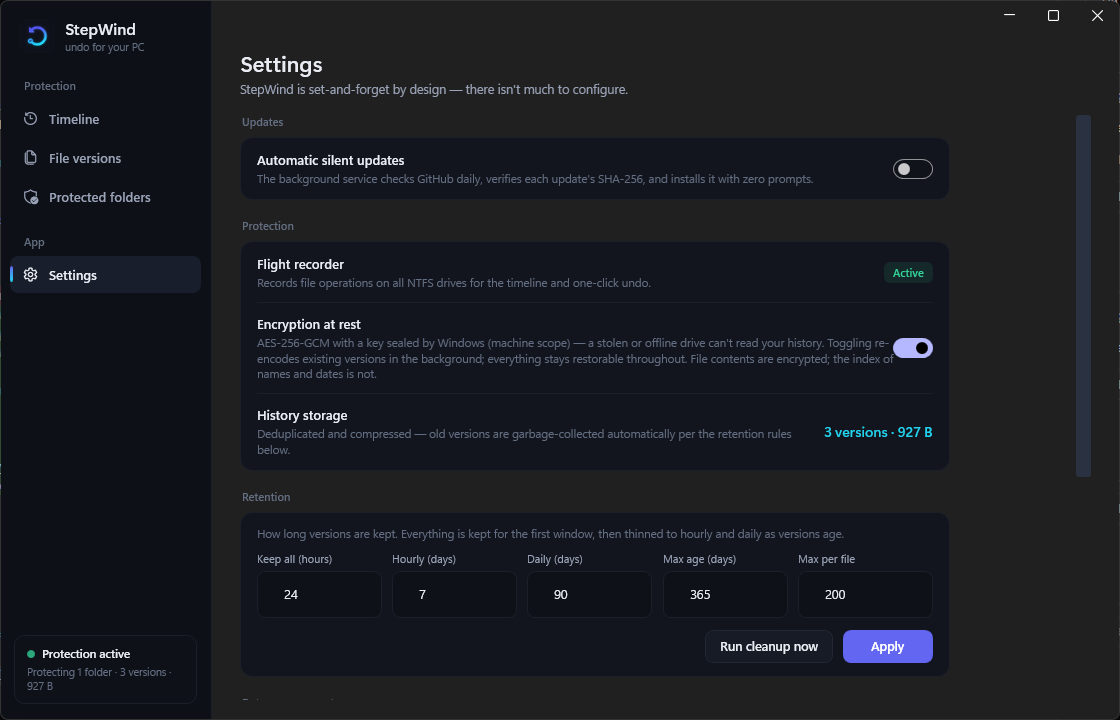
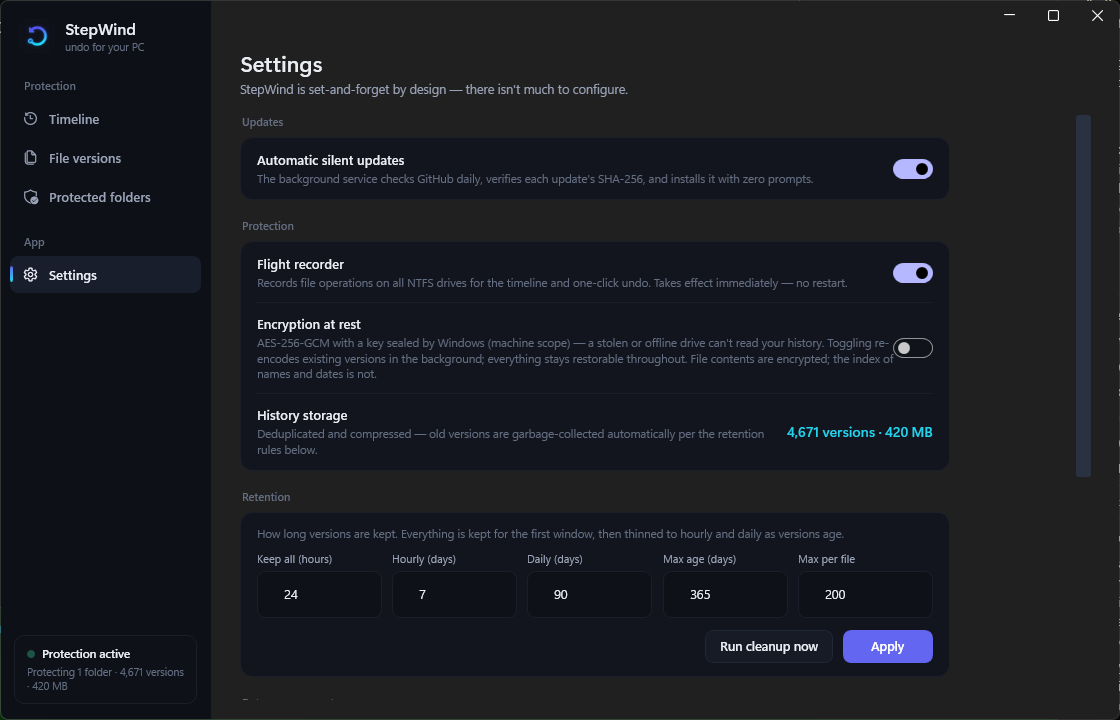
Flight recorder is a real toggle; fix silent-update abort
Two bugs the user hit: the Flight recorder row was display-only (no way
to turn it on), and it was showing Off because the E2E harnesses had
written a test settings.json with it disabled and left it there.

- Host: flight recorder can start/stop live via a SetSettings patch
  (FlightRecorderEnabled). Enabling that fails to start ETW/USN (e.g.
  unprivileged run) returns an honest error and leaves the setting off
  instead of pretending; _flightRecorder is now swapped under a local
  copy so BuildTimeline never races the toggle.
- Settings UI: real ToggleSwitch (two-way, snaps back to the service's
  truth on failure); status updates reflect the running state without
  re-pushing a patch.

- Installer: removed AppMutex. With /SUPPRESSMSGBOXES its "app is
  running" prompt auto-answered Cancel and ABORTED the whole silent
  update before any file was copied -- so upgrades and every silent
  auto-update kept the OLD service binary while reporting success (the
  installed StepWind.Service.exe hashed different from the built one).
  Now CloseApplications=yes (Restart Manager closes/reopens the tray
  GUI) + CurStepChanged(ssInstall) cleanly stops the service before the
  copy. Verified: post-upgrade installed service exe hash == built, and
  the flight-recorder toggle works on the freshly-updated service.

- E2E harnesses (all six) now back up settings.json before and restore
  it after, so tests can never again leave protection switches off on a
  real machine.
[…]

diff --git a/src/StepWind.App/Views/SettingsView.xaml b/src/StepWind.App/Views/SettingsView.xaml
@@ -50,34 +50,10 @@
                            Foreground="{StaticResource SW.Text}"/>
                 <TextBlock FontSize="11.5" Foreground="{StaticResource SW.Text3}" Margin="0,3,0,0"
                            TextWrapping="Wrap"
-                           Text="Records file operations on all NTFS drives for the timeline and one-click undo."/>
+                           Text="Records file operations on all NTFS drives for the timeline and one-click undo. Takes effect immediately — no restart."/>
               </StackPanel>
-              <Border Grid.Column="1" CornerRadius="6" Padding="9,3" VerticalAlignment="Center">
-                <Border.Style>
-                  <Style TargetType="Border">
-                    <Setter Property="Background" Value="#1AFB7185"/>
-                    <Style.Triggers>
-                      <DataTrigger Binding="{Binding FlightRecorderOn}" Value="True">
-                        <Setter Property="Background" Value="#1A34D399"/>
-                      </DataTrigger>
-                    </Style.Triggers>
-                  </Style>
-                </Border.Style>
-                <TextBlock FontSize="11" FontWeight="SemiBold">
-                  <TextBlock.Style>
-                    <Style TargetType="TextBlock">
-                      <Setter Property="Text" Value="Off"/>
-                      <Setter Property="Foreground" Value="{StaticResource SW.Danger}"/>
-                      <Style.Triggers>
-                        <DataTrigger Binding="{Binding FlightRecorderOn}" Value="True">
-                          <Setter Property="Text" Value="Active"/>
-                          <Setter Property="Foreground" Value="{StaticResource SW.Ok}"/>
-                        </DataTrigger>
-                      </Style.Triggers>
-                    </Style>
-                  </TextBlock.Style>
-                </TextBlock>
-              </Border>
+              <ui:ToggleSwitch Grid.Column="1" VerticalAlignment="Center"
+                               IsChecked="{Binding FlightRecorderOn}"/>
             </Grid>
 
             <Rectangle Height="1" Fill="{StaticResource SW.StrokeSoft}" Margin="0,12"/>

diff --git a/src/StepWind.Core/Engine/StepWindHost.cs b/src/StepWind.Core/Engine/StepWindHost.cs
@@ -17,7 +17,7 @@ public sealed class StepWindHost : IDisposable
 {
     private readonly StepWindSettings _settings;
     private readonly VersionStore _store;
-    private readonly FlightRecorder? _flightRecorder;
+    private FlightRecorder? _flightRecorder; // swapped live by the settings toggle
     private readonly System.Threading.Timer _retentionTimer;
     private readonly Action<string>? _log;
     private readonly RealFileSystemActions _fs = new();
@@ -54,14 +54,10 @@ public sealed class StepWindHost : IDisposable
 
         if (settings.FlightRecorderEnabled)
         {
-            try
+            string? error = TryStartFlightRecorder();
+            if (error is not null)
             {
-                _flightRecorder = new FlightRecorder(settings.StoreRoot, FixedNtfsVolumes(), log: log,
-                    ignorePrefixes: new[] { StepWindSettings.DefaultRoot, settings.StoreRoot });
-            }
-            catch (Exception ex)
-            {
-                _log?.Invoke("flight recorder unavailable: " + ex.Message);
+                _log?.Invoke("flight recorder unavailable: " + error);
             }
         }
 
@@ -77,6 +73,40 @@ public sealed class StepWindHost : IDisposable
         // Retention + GC daily (and once shortly after start).
         _retentionTimer = new System.Threading.Timer(_ => RunRetention(), null,
             TimeSpan.FromMinutes(5), TimeSpan.FromHours(24));
+    }
+
+    /// <summary>Starts the flight recorder (USN + ETW). Returns null on success, else the reason.</summary>
+    private string? TryStartFlightRecorder()
+    {
+        if (_flightRecorder is not null)
+        {
+            return null;
+        }
+
+        try
+        {
+            _flightRecorder = new FlightRecorder(_settings.StoreRoot, FixedNtfsVolumes(), log: _log,
+                ignorePrefixes: new[] { StepWindSettings.DefaultRoot, _settings.StoreRoot });
+            return null;
+        }
+        catch (Exception ex)
+        {
+            return ex.Message;
+        }
+    }
+
+    private void StopFlightRecorder()
+    {
+        FlightRecorder? fr = _flightRecorder;
+        _flightRecorder = null;
+        try
+        {
+            fr?.Dispose();
+        }
+        catch (Exception ex)
+        {
+            _log?.Invoke("flight recorder stop: " + ex.Message);
+        }
     }
 
     /// <summary>Creates a watch engine from the current settings (exclusions applied).</summary>
@@ -142,13 +172,14 @@ public sealed class StepWindHost : IDisposable
 
     private List<TimelineEntry> BuildTimeline(int limit)
     {
-        if (_flightRecorder is null)
+        FlightRecorder? recorder = _flightRecorder; // local copy — the toggle can swap it
+        if (recorder is null)
         {
             return [];
         }
 
         var entries = new List<TimelineEntry>();
-        foreach (FileOperation op in _flightRecorder.Recent(limit))
+        foreach (FileOperation op in recorder.Recent(limit))
         {
             entries.Add(new TimelineEntry
             {
@@ -189,6 +220,7 @@ public sealed class StepWindHost : IDisposable
         public List<string>? ExcludedPrefixes { get; set; }
         public bool? AutoUpdateEnabled { get; set; }
         public bool? EncryptionEnabled { get; set; }
+        public bool? FlightRecorderEnabled { get; set; }
         public bool? TimelineProtectedOnly { get; set; }
         public int? RetentionKeepAllHours { get; set; }
         public int? RetentionHourlyDays { get; set; }
@@ -252,6 +284,27 @@ public sealed class StepWindHost : IDisposable
         if (patch.AutoUpdateEnabled is bool au)
         {
             _settings.AutoUpdateEnabled = au;
+        }
+
+        if (patch.FlightRecorderEnabled is bool fre && fre != _settings.FlightRecorderEnabled)
+        {
+            if (fre)
+            {
+                // Honest failure: if ETW/USN can't start (no privileges in a dev/console run),
+                // say so and leave the setting off rather than pretending.
+                string? error = TryStartFlightRecorder();
+                if (error is not null)
+                {
+                    return IpcResponse.Fail("could not start the flight recorder: " + error);
+                }
+            }
+            else
+            {
+                StopFlightRecorder();
+            }
+
+            _settings.FlightRecorderEnabled = fre;
+            _log?.Invoke($"flight recorder {(fre ? "started" : "stopped")}");
         }
 
         if (patch.TimelineProtectedOnly is bool tpo)
@@ -675,7 +728,7 @@ public sealed class StepWindHost : IDisposable
             _watch.Dispose();
         }
 
-        _flightRecorder?.Dispose();
+        StopFlightRecorder();
         _lifetime.Dispose();
     }
 

diff --git a/tests/StepWind.Core.Tests/FolderRemovalTests.cs b/tests/StepWind.Core.Tests/FolderRemovalTests.cs
@@ -303,6 +303,49 @@ public class FolderRemovalTests : IDisposable
         Assert.Equal("Docs/Work/budget.xlsx", scoped[0].RelativePath);
     }
 
+    [Fact]
+    public void Flight_recorder_toggles_live_or_fails_honestly()
+    {
+        static bool StatusSaysRecorder(StepWindHost host)
+        {
+            IpcResponse st = host.Handle(new IpcRequest { Command = IpcCommand.GetStatus });
+            using JsonDocument doc = JsonDocument.Parse(st.Json!);
+            return doc.RootElement.GetProperty("FlightRecorder").GetBoolean();
+        }
+
+        Assert.False(StatusSaysRecorder(_host)); // constructed with it off
+
+        IpcResponse on = _host.Handle(new IpcRequest
+        {
+            Command = IpcCommand.SetSettings,
+            Arg1 = JsonSerializer.Serialize(new { FlightRecorderEnabled = true }),
+        });
+
+        if (on.Ok)
+        {
+            // Privileged environment: it must actually be running now, and stop cleanly.
+            Assert.True(StatusSaysRecorder(_host));
+            Assert.True(_settings.FlightRecorderEnabled);
+
+            IpcResponse off = _host.Handle(new IpcRequest
+            {
+                Command = IpcCommand.SetSettings,
+                Arg1 = JsonSerializer.Serialize(new { FlightRecorderEnabled = false }),
+            });
+            Assert.True(off.Ok);
+            Assert.False(StatusSaysRecorder(_host));
+            Assert.False(_settings.FlightRecorderEnabled);
+        }
+        else
+        {
+            // Unprivileged environment: the failure must be honest — clear error, setting
+            // NOT flipped, recorder NOT reported as running.
+            Assert.Contains("flight recorder", on.Error, StringComparison.OrdinalIgnoreCase);
+            Assert.False(_settings.FlightRecorderEnabled);
+            Assert.False(StatusSaysRecorder(_host));
+        }
+    }
+
     private BrowseEntry[] Browse(string prefix, string? query)
     {
         IpcResponse resp = _host.Handle(new IpcRequest

diff --git a/src/StepWind.App/ViewModels/MainViewModel.cs b/src/StepWind.App/ViewModels/MainViewModel.cs
@@ -335,10 +335,35 @@ public sealed class MainViewModel : INotifyPropertyChanged
         private set { _totalVersions = value; OnChanged(); }
     }
 
+    /// <summary>
+    /// Two-way: flipping the switch starts/stops the whole-machine flight recorder live.
+    /// If the service can't start it (e.g. unprivileged dev run), the push fails and the
+    /// next settings load snaps the switch back to the truth.
+    /// </summary>
     public bool FlightRecorderOn
     {
         get => _flightRecorderOn;
-        private set { _flightRecorderOn = value; OnChanged(); }
+        set
+        {
+            if (_flightRecorderOn == value)
+            {
+                return;
+            }
+
+            _flightRecorderOn = value;
+            OnChanged();
+            if (!_loadingSettings)
+            {
+                _ = PushFlightRecorderAsync(value);
+            }
+        }
+    }
+
+    private async Task PushFlightRecorderAsync(bool enabled)
+    {
+        await PushPatchAsync(new { FlightRecorderEnabled = enabled });
+        await LoadSettingsAsync();
+        await RefreshStatusOnlyAsync();
     }
 
     /// <summary>
@@ -468,7 +493,14 @@ public sealed class MainViewModel : INotifyPropertyChanged
 
         ProtectingCount = roots;
         TotalVersions = versions;
-        FlightRecorderOn = fr;
+        if (_flightRecorderOn != fr)
+        {
+            // Reflect the ACTUAL running state without going through the pushing setter —
+            // status updates must never themselves send a settings patch.
+            _flightRecorderOn = fr;
+            OnChanged(nameof(FlightRecorderOn));
+        }
+
         _storeBytes = r.TryGetProperty("StoreBytes", out JsonElement sb) ? sb.GetInt64() : 0;
         OnChanged(nameof(StorageText));
         ReEncoding = r.TryGetProperty("ReEncoding", out JsonElement re) && re.GetBoolean();

diff --git a/CHANGELOG.md b/CHANGELOG.md
@@ -66,6 +66,17 @@ Initial release — an undo button for your whole PC.
   visual layer sits on standard accessible control plumbing, so keyboard navigation and
   screen readers keep working. A global panic hotkey — **Ctrl+Shift+Z** — opens StepWind
   from anywhere.
+- **The flight recorder is a real toggle now** (it was a read-only badge). Flip it in
+  Settings to start/stop whole-machine operation recording live, no restart. If ETW/USN
+  can't start (e.g. an unprivileged run) the switch fails honestly and stays off rather than
+  lying.
+- **Fixed a serious installer/auto-update bug:** the setup declared `AppMutex`, so with
+  `/SUPPRESSMSGBOXES` the "app is running" prompt auto-cancelled and the whole silent update
+  **aborted before copying a single file** — upgrades (and every silent auto-update) kept the
+  OLD service binary while reporting success. Setup now closes the tray app via Restart
+  Manager and cleanly stops the service before copying, so binaries actually get replaced.
+  (Also: the E2E harnesses now back up and restore your real settings.json, so testing can
+  never again leave the flight recorder or auto-update switched off on a real machine.)
 - **File versions is a folder browser now, not one long list:** open a protected folder,
   drill into any subfolder via breadcrumbs, and see version history scoped to what you picked
   — built for deep dev trees (`Reports/Q1/…`, `Code/src/…`), not just a flat feed. Each